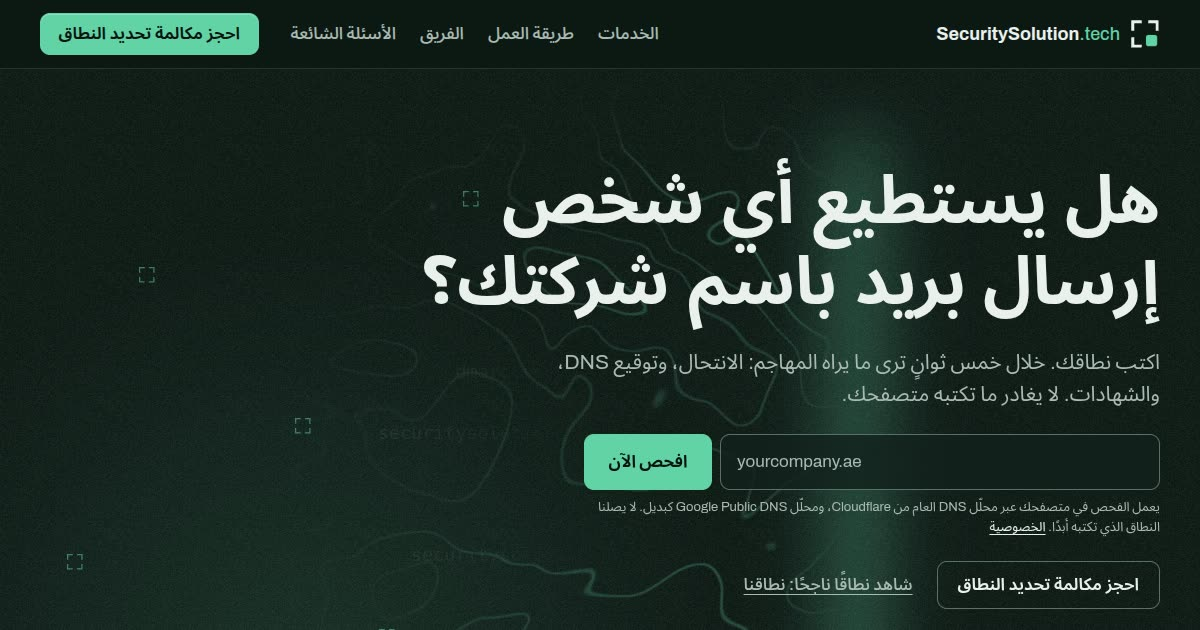
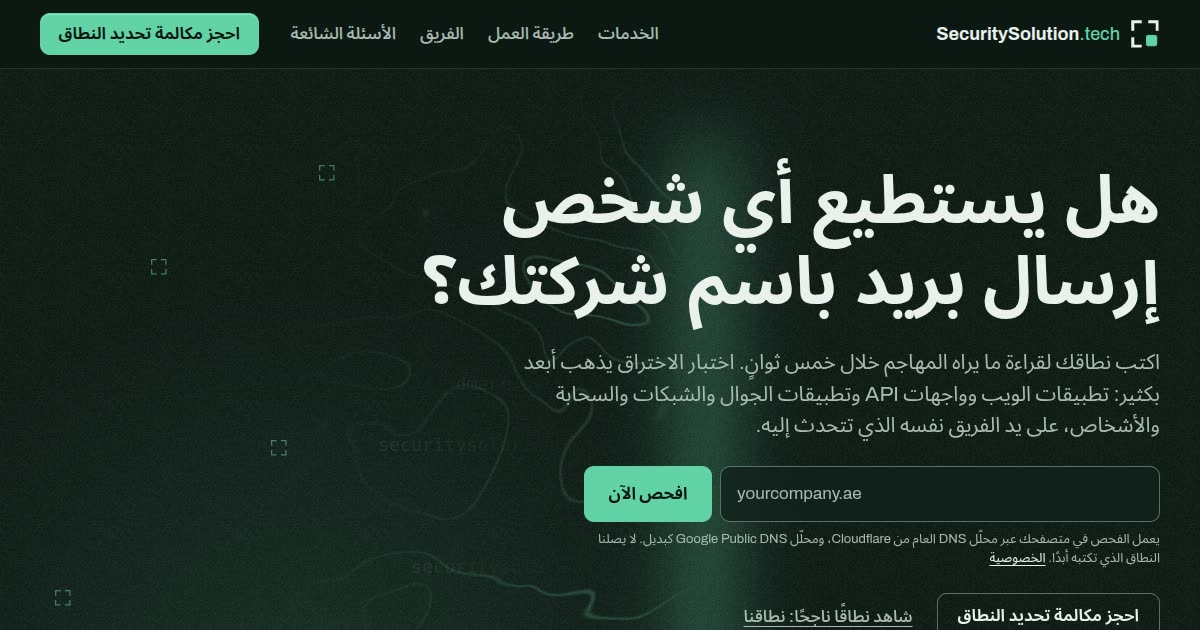
Carry the whole practice from the first screen: the lead, a bridge under the check, an API finding, and a FAQ
The hook had narrowed the first screen to email and DNS, and the hero lead no longer
named the practice. The lead now does, in the same breath as the five-second check:
web apps, APIs, mobile apps, networks, cloud and people, by the same team. A short
block under the instrument says what the check reads and what a penetration test goes
inside for, with the seven surfaces as a strip of links into the service pages. The
example finding is no longer a DMARC record but the flaw found most often in web
applications and APIs: any customer could read every other customer's invoices, with
the request and the response as evidence, the business impact under the UAE data
protection law, three fix steps and the retest line. The first FAQ answers the question
the hook raises: no, not only email and DNS.

Measured on the built home page, the blocks led by email and DNS fall from 29% of the
words to 16%, and the hero names the services again. Both languages carry the new
words; the home social images are regenerated.

diff --git a/src/i18n/ar.ts b/src/i18n/ar.ts
@@ -50,7 +50,7 @@ export const ar: Dictionary = {
 
   hero: {
     headline: 'هل يستطيع أي شخص إرسال بريد باسم شركتك؟',
-    lead: 'اكتب نطاقك. خلال خمس ثوانٍ ترى ما يراه المهاجم: الانتحال، وتوقيع DNS، والشهادات. لا يغادر ما تكتبه متصفحك.',
+    lead: 'اكتب نطاقك لقراءة ما يراه المهاجم خلال خمس ثوانٍ. اختبار الاختراق يذهب أبعد بكثير: تطبيقات الويب وواجهات API وتطبيقات الجوال والشبكات والسحابة والأشخاص، على يد الفريق نفسه الذي تتحدث إليه.',
     example: 'شاهد نطاقًا ناجحًا: نطاقنا',
     result: {
       weak: '{domain}: يمكن لأي شخص إرسال بريد باسمك.',
@@ -161,6 +161,20 @@ export const ar: Dictionary = {
     },
   },
 
+  bridge: {
+    title: 'كانت هذه نسخة الخمس ثوانٍ',
+    lead: 'يقرأ الفحص ما هو علني عن النطاق. أما اختبار الاختراق فيدخل إلى الداخل، ضمن نطاق مكتوب، ويغطي ما يستخدمه المهاجمون فعلًا:',
+    surfaces: [
+      'تطبيقات الويب',
+      'واجهات API',
+      'تطبيقات الجوال',
+      'الشبكات',
+      'حسابات السحابة',
+      'ميزات الذكاء الاصطناعي',
+      'الأشخاص',
+    ],
+  },
+
   scores: {
     title: 'نختبر موقعنا أولًا',
     lead1: 'تمنح أدوات فحص مستقلة هذا الموقع درجاته. نعيد فحصه كل يوم (',
@@ -233,29 +247,28 @@ export const ar: Dictionary = {
     title: 'تقارير يستطيع فريقك العمل بها',
     lead: 'تذكر كل نتيجة ما وجدناه، ولماذا يهم العمل، وكيف يُصلح بالضبط. هذا ما تبدو عليه إحداها.',
     severity: 'عالية',
-    heading: 'يمكن لأي شخص إرسال بريد يبدو صادرًا من شركتك',
+    heading: 'يمكن لأي عميل قراءة فواتير جميع العملاء الآخرين',
     affected: 'المتأثر',
-    affectedValue: 'نطاق بريد example.com',
+    affectedValue: 'واجهة API لبوابة العملاء',
     category: 'الفئة',
-    categoryValue: 'أمن البريد الإلكتروني',
+    categoryValue: 'التحكم في الوصول',
     status: 'الحالة',
     statusValue: 'أُصلحت، وتحقّقنا منها عند إعادة الاختبار',
     evidence: 'الدليل',
+    evidence1: 'GET /api/invoices/10422   بجلسة العميل أ',
+    evidence2: '200 OK                    الفاتورة تخص العميل ب',
     impact: 'الأثر على الأعمال',
-    impact1: 'يمكن للمهاجمين إرسال فواتير أو طلبات دفع تبدو صادرة من فريقكم المالي. ولأن السياسة هي ',
-    impact2: '، تُطلب من خوادم البريد المستقبِلة تسليمها على أي حال.',
+    impactText:
+      'كانت كل فاتورة، بأسماء العملاء والمبالغ، مقروءة لأي شخص يملك حساب دخول، بما في ذلك حساب تجريبي يُنشأ في دقيقتين. هذه بيانات شخصية بموجب قانون حماية البيانات الإماراتي، وخرق يتوجب عليك الإبلاغ عنه.',
     fix: 'طريقة الإصلاح',
-    fix1: 'تأكد من نجاح SPF وDKIM لكل خدمة ترسل بريدكم.',
-    fix2a: 'غيّر السياسة إلى ',
-    fix2b: ' وراجع تقارير DMARC لمدة أسبوعين.',
-    fix3a: 'انتقل إلى ',
-    fix3b: ' بعد أن يجتاز البريد المشروع الفحص.',
+    fix1: 'تحقق على الخادم من أن الفاتورة تخص العميل المسجّل دخوله قبل إعادتها.',
+    fix2: 'أضف اختبارًا يطلب فاتورة عميل آخر ويتوقع الرفض.',
+    fix3: 'راجع كل نقطة نهاية تأخذ معرّفًا في العنوان، لا هذه وحدها.',
     retest: 'إعادة الاختبار',
-    retest1: 'أُصلحت وتحقّقنا منها. السياسة الآن ',
-    retest2: '.',
+    retestText: 'أُصلحت وتحقّقنا منها. فواتير العملاء الآخرين تعيد الآن 403 Forbidden.',
     caption:
-      'نتيجة توضيحية. الشركة والنطاق افتراضيان. يصنّف فحص النطاق أعلاه السجل نفسه تحذيرًا، أما التقرير فيزن الأثر على الأعمال أيضًا، ولهذا فهذه النتيجة عالية.',
-    captionLink: 'شغّل الفحص على نطاقك',
+      'نتيجة توضيحية. الشركة وواجهة API افتراضيتان، أما الثغرة فهي الأكثر شيوعًا فيما نجده في تطبيقات الويب وواجهات API: كسر التفويض على مستوى الكائنات، الأولى في قائمة OWASP API Security Top 10.',
+    captionLink: 'اعرف كيف نختبر ذلك',
   },
 
   team: {
@@ -627,6 +640,11 @@ export const arContent: Content = {
     },
   },
   faqs: [
+    {
+      q: 'هل تفحصون البريد وDNS فقط؟',
+      a: 'لا. الفحص في هذه الصفحة يقرأ ما هو علني عن نطاقك خلال خمس ثوانٍ، وهو مجاني. أما اختبار الاختراق فيدخل إلى الداخل ضمن نطاق مكتوب: تطبيقات الويب وواجهات API وتطبيقات الجوال والشبكات وحسابات السحابة وميزات الذكاء الاصطناعي. والمراقبة الأمنية والجاهزية للامتثال خدمتان منفصلتان مذكورتان أعلاه.',
+      on: ['home', 'offensive-testing'],
+    },
     {
       q: 'كم يكلف اختبار الاختراق؟',
       a: 'يعتمد على النطاق: عدد التطبيقات وأدوار المستخدمين وواجهات API وعناوين IP المشمولة. بعد مكالمة تحديد نطاق من 30 دقيقة تحصل على نطاق مكتوب وعرض سعر ثابت، فلا يتغير السعر في منتصف الطريق.',

diff --git a/src/i18n/en.ts b/src/i18n/en.ts
@@ -45,7 +45,7 @@ export const en = {
 
   hero: {
     headline: 'Can anyone send email as your company?',
-    lead: 'Type your domain. In five seconds you see what an attacker sees: spoofing, signed DNS, certificates. Nothing you type leaves your browser.',
+    lead: 'Type your domain for a five-second read of what an attacker sees. A penetration test goes much further: web apps, APIs, mobile apps, networks, cloud and people, by the same team you talk to.',
     example: 'See a passing domain: ours',
     /** The headline once a check has run, by how well spoofing is held off. */
     result: {
@@ -180,6 +180,13 @@ export const en = {
     },
   },
 
+  /** The handoff from the five-second check to the practice, right under the instrument. */
+  bridge: {
+    title: 'That was the five-second version',
+    lead: 'The check reads what is public about a domain. A penetration test goes inside, under a written scope, and covers the parts attackers actually use:',
+    surfaces: ['Web apps', 'APIs', 'Mobile apps', 'Networks', 'Cloud accounts', 'AI features', 'People'],
+  },
+
   scores: {
     title: 'We test our own site first',
     lead1: 'Independent scanners grade this website. We re-check it every day (',
@@ -258,30 +265,28 @@ export const en = {
     title: 'Reports your team can act on',
     lead: 'Every finding says what we found, why it matters to the business, and exactly how to fix it. This is what one looks like.',
     severity: 'High',
-    heading: 'Anyone can send email that appears to come from your company',
+    heading: 'Any customer could read every other customer’s invoices',
     affected: 'Affected',
-    affectedValue: 'example.com mail domain',
+    affectedValue: 'Customer portal API',
     category: 'Category',
-    categoryValue: 'Email security',
+    categoryValue: 'Access control',
     status: 'Status',
     statusValue: 'Fixed, verified on retest',
     evidence: 'Evidence',
+    evidence1: 'GET /api/invoices/10422   logged in as customer A',
+    evidence2: '200 OK                    the invoice belongs to customer B',
     impact: 'Business impact',
-    impact1:
-      'Attackers can send invoices or payment requests that look like they come from your finance team. Because the policy is ',
-    impact2: ', receiving mail servers are told to deliver them anyway.',
+    impactText:
+      'Every invoice, with customer names and amounts, was readable by anyone with a login, including a trial account created in two minutes. That is personal data under the UAE data protection law, and a breach you would have to report.',
     fix: 'How to fix',
-    fix1: 'Confirm SPF and DKIM pass for every service that sends your email.',
-    fix2a: 'Change the policy to ',
-    fix2b: ' and review the DMARC reports for 2 weeks.',
-    fix3a: 'Move to ',
-    fix3b: ' once legitimate mail passes.',
+    fix1: 'Check on the server that the invoice belongs to the logged-in customer before returning it.',
+    fix2: 'Add a test that requests another customer’s invoice and expects a refusal.',
+    fix3: 'Review every endpoint that takes an id in the address, not only this one.',
     retest: 'Retest',
-    retest1: 'Fixed and verified. The policy is now ',
-    retest2: '.',
+    retestText: 'Fixed and verified. Other customers’ invoices now return 403 Forbidden.',
     caption:
-      'Example finding. The company and domain are illustrative. The domain check above rates the same record as a warning; a report also weighs the business impact, which is why this one is High.',
-    captionLink: 'Run the check on your domain',
+      'Example finding. The company and the API are illustrative; the flaw is the one we find most often in web applications and APIs, broken object-level authorization, first on the OWASP API Security Top 10.',
+    captionLink: 'See how we test for it',
   },
 
   team: {

diff --git a/src/data/faq.ts b/src/data/faq.ts
@@ -7,6 +7,11 @@ export interface FaqItem {
 
 export const faqs: FaqItem[] = [
   {
+    q: 'Do you only check email and DNS?',
+    a: 'No. The check on this page reads what is public about your domain in five seconds, and it is free. A penetration test goes inside, under a written scope: web apps, APIs, mobile apps, networks, cloud accounts and AI features. Security monitoring and compliance readiness are separate services, listed above.',
+    on: ['home', 'offensive-testing'],
+  },
+  {
     q: 'How much does a penetration test cost?',
     a: 'It depends on the scope: how many applications, user roles, APIs and IP addresses are in play. After a 30-minute scoping call you get a written scope and a fixed quote, so the price does not change halfway through.',
     on: ['home', 'offensive-testing', 'ai-cloud-security'],
